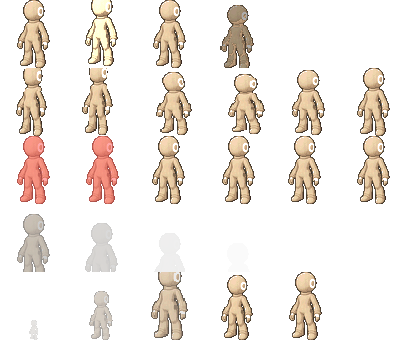
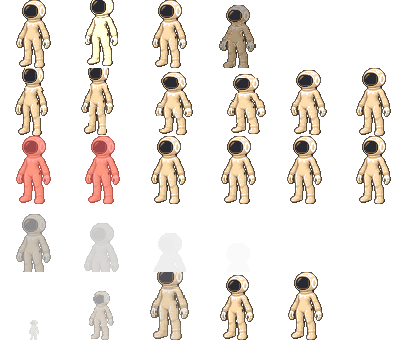
Give NEO a dark face panel so it reads at battle scale
The white ear ring survived the palette reduction but the rest of the
sprite was one flat beige value, so at 68px NEO still looked like a bare
mannequin - the original complaint. The real 1X NEO has three contrast
anchors, not one: the dark oval face plate, the white ear ring and the
pale moulded hands against the knit sleeves. The prompt now asks for all
three, and the charcoal face is reserved as a second beacon colour.

Copilot-Session: 3974e395-4a4d-4de5-b6cf-b02f7bb5b7c5

diff --git a/tools/newmons.py b/tools/newmons.py
@@ -292,7 +292,7 @@ SPECIES = [
         types=["neural", "alloy"], genus="Home Unit",
         stats=(100, 80, 90, 82, 96, 57), catch=45, base_exp=192,
         growth="slow", height=1.65, weight=30.0, cell=(68, 68),
-        accents=((0xFF, 0xFF, 0xFF),),  # glowing white ear ring
+        accents=((0xFF, 0xFF, 0xFF), (0x28, 0x2C, 0x34)),  # ear ring + dark face
         dex="Wrapped head to toe in soft knit so it can never hurt anyone. It tidies your workshop "
             "while you sleep.",
         art="A gentle human-proportioned bipedal humanoid robot creature standing calmly with its arms "
@@ -300,15 +300,19 @@ SPECIES = [
             "oatmeal-beige knitted fabric suit like a full knitted bodysuit, the colour a very "
             "desaturated light greige sand tone close to raw undyed wool or unbleached linen, "
             "definitely NOT orange and NOT bright tan, kept muted and washed-out: the head is a smooth "
-            "featureless rounded egg shape covered in the same beige knit with no eyes, no mouth and no "
-            "visor at all, and on the side of the head exactly where a human ear would sit there is one "
+            "rounded egg shape covered in the same beige knit, and set into the front of that head is "
+            "one large smooth glossy very dark charcoal-black oval face panel with no eyes and no "
+            "mouth, a plain unbroken dark visor plate covering most of the front of the head and "
+            "contrasting strongly against the pale knit around it; on the side of the head exactly "
+            "where a human ear would sit there is one "
             "large bright glowing white circular ring, a bold luminous white halo outline taking up a "
-            "third of the visible side of the head, which is the single brightest and most distinctive "
-            "feature of the creature; a soft knitted collar at "
+            "third of the visible side of the head, which together with the dark face is the most "
+            "distinctive feature of the creature; a soft knitted collar at "
             "the neck; the shoulders, chest, arms, hips and legs all show a clearly visible ribbed knit "
             "stitch texture with gentle fabric creases and soft seams running down the outside of the "
-            "arms and legs; the hands are the only hard parts, smooth cream-white moulded "
-            "five-fingered robotic hands with visible finger segments emerging from knitted cuffs; one "
+            "arms and legs; the hands are the only hard parts, large bright cream-white moulded "
+            "five-fingered robotic hands, clearly much paler and glossier than the knit sleeves, with "
+            "visible finger segments emerging from darker knitted cuffs; one "
             "small round darker port low on the outer hip; softly rounded knit feet; broad relaxed "
             "shoulders and a calm friendly stance, warm and domestic, everything else fabric with no "
             "exposed metal or machinery anywhere; drawn with stylised creature proportions, the head "
